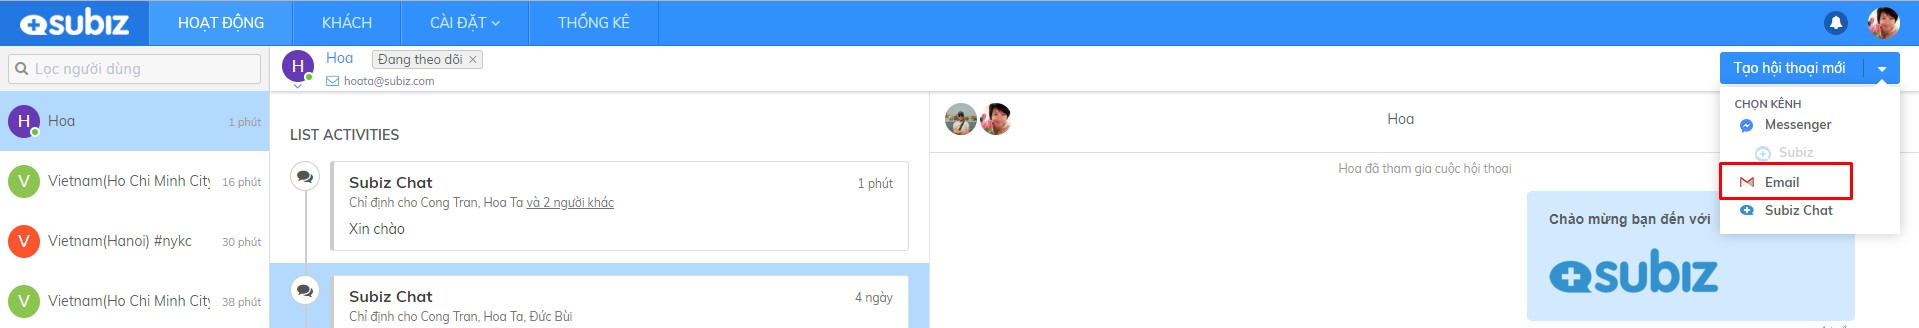
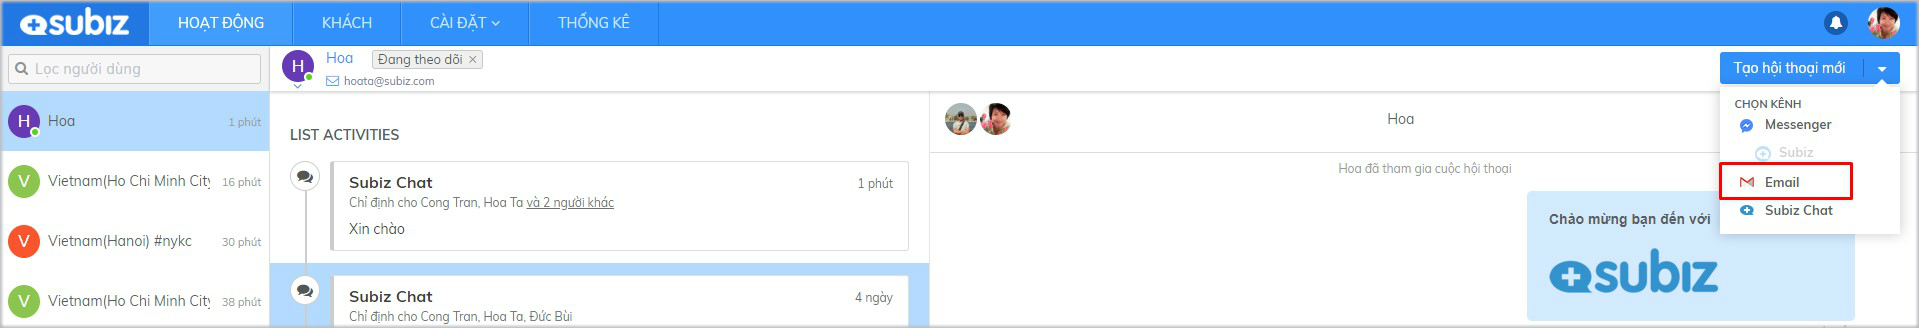
GitBook: [master] one page and 3 assets modified

diff --git a/bat-dau-voi-subiz/lam-viec-tren-subiz/tuong-tac-qua-kenh-email.md b/bat-dau-voi-subiz/lam-viec-tren-subiz/tuong-tac-qua-kenh-email.md
@@ -8,7 +8,7 @@ Bạn \(Agent\) cần[ tích hợp Email và thiết lập chuyển tiếp mail]
 
 Địa chỉ **Email khách hàng** phải được cập nhật trong mục **Thông tin khách hàng,** sau đó ****bạn sẽ tạo được hội thoại mới trên kênh Email.
 
-![L&#x1B0;u &#x111;&#x1ECB;a ch&#x1EC9; Email kh&#xE1;ch h&#xE0;ng](../../.gitbook/assets/cap-nhat-mail.jpg)
+![L&#x1B0;u &#x111;&#x1ECB;a ch&#x1EC9; Email kh&#xE1;ch h&#xE0;ng](../../.gitbook/assets/xem-email%20%281%29.jpg)
 
 Bạn có thể chủ động gửi Email tới khách hàng với 2 bước đơn giản sau:  
 **1. Tạo hội thoại mới trên kênh Email  
